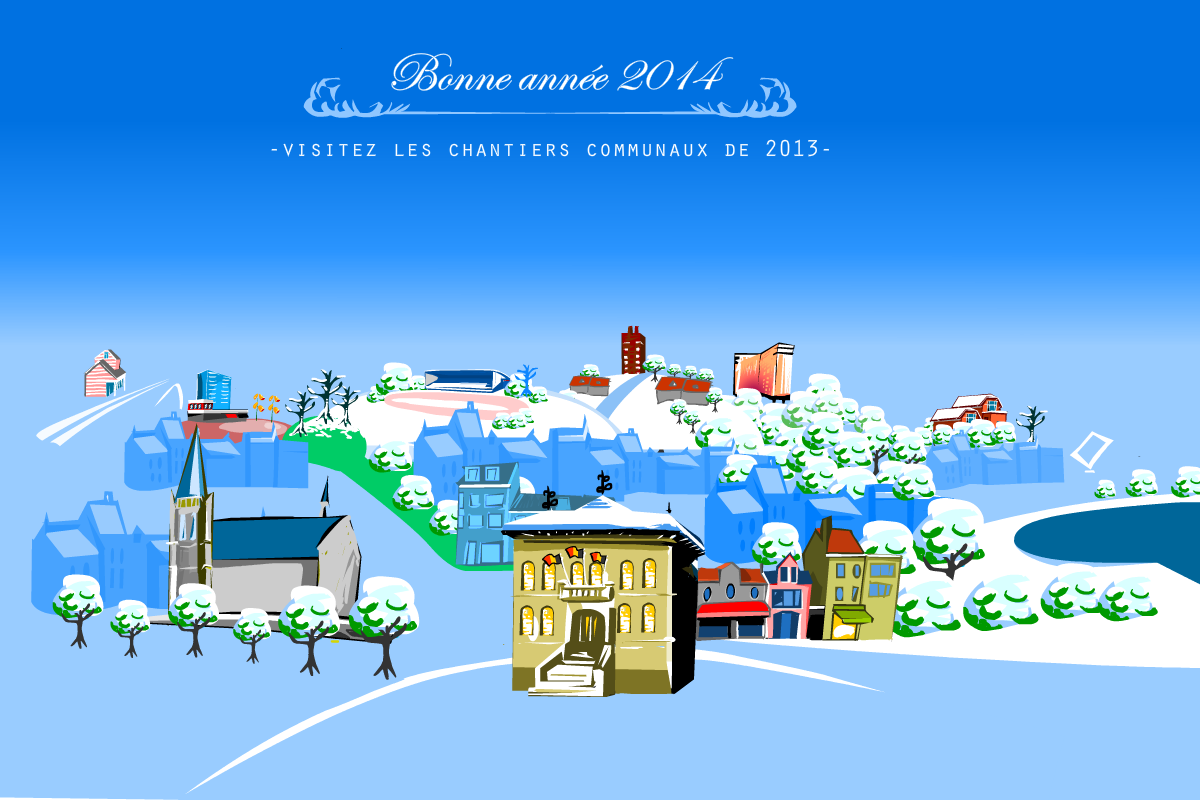
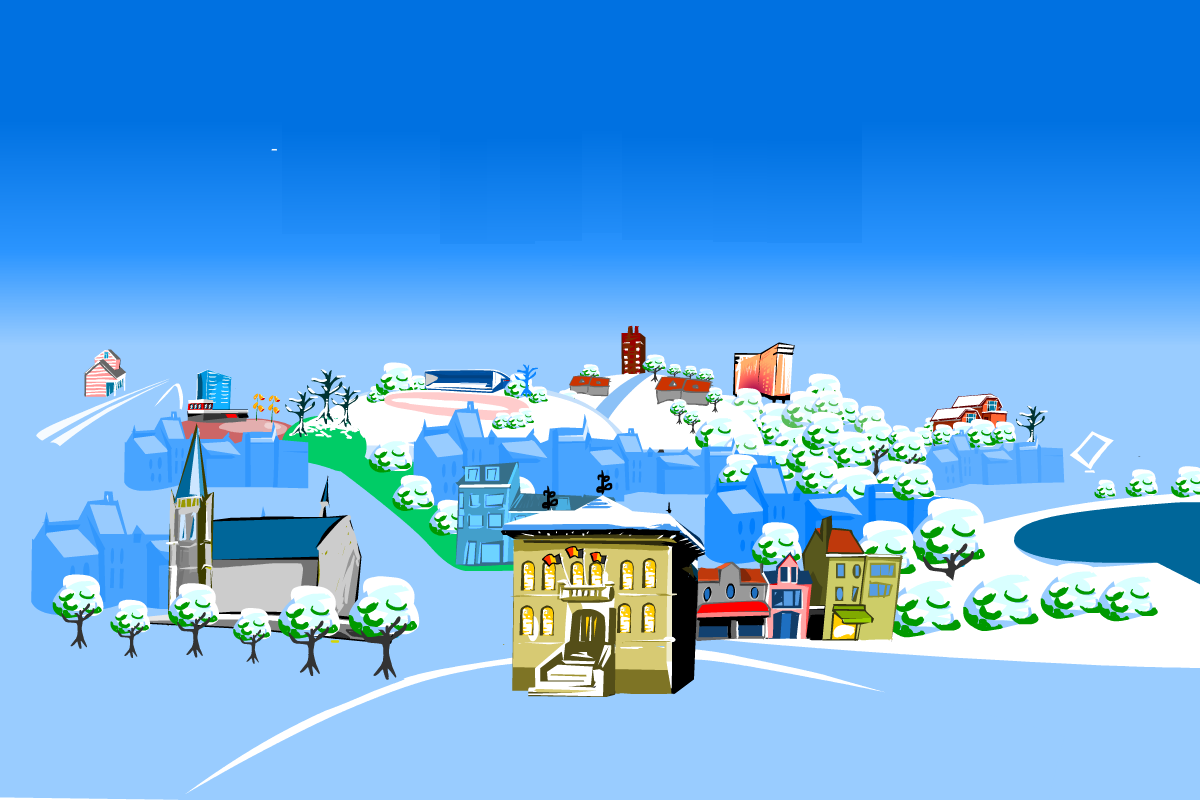
Responsive version

Changed region(s): [[0.2467, 0.0625, 0.6783, 0.2188]]

diff --git a/css/popup.css b/css/popup.css
@@ -18,7 +18,20 @@ reveal {
 to {
 	top: 0px; 
 }
-};
+}
+
+@-webkit-keyframes
+zoomIn {
+	
+	from {
+	width: 1px;
+	opacity:0;  
+}
+to {
+	width: 1000px;
+	opacity:1;  
+}
+}
 
 
 
@@ -29,14 +42,26 @@ to {
 
 
 body {
+	position:relative; 
 	background-color: #fff;
 	font-family: 'Open Sans', sans-serif;
 	font-weight: 400;
 	width:1000px; 
 	margin-left: auto;
 	margin-right: auto;
+	text-align:center; 
 	
 }
+.no-touch body {
+	margin:100px auto 0px auto; 
+	
+	
+}
+.touch body {
+	background-color:#99ccff; 
+	
+}
+
 
 .reveal {
 	animation: reveal 0.3s;
@@ -44,11 +69,6 @@ body {
 }
 
 
-.no-touch body {
-	padding:20px 0px 0px 0px; 
-	
-	
-}
 
 
 
@@ -56,26 +76,68 @@ body {
 	margin-left: auto;
 	margin-right: auto;
 	position:relative; 
+	text-align:center;
+	-webkit-animation: zoomIn 1s;
+	height:500px;  
+	overflow:hidden; 
+	  
  
 }
 
 
 
 img {
+	position:absolute; 
 	
 	width: 1000px;
 	height: 500px;
+	top:0px; 
+	left:0px;
+	border-radius: 3px; 
+ 
 }
-.no-touch img {
-	box-shadow: 5px 5px 20px #999;
+.no-touch #application {
+	box-shadow: 5px 5px 20px #ddd;
 	
 }
-
+header {
+	text-align:center; 
+	padding-top:25px; 
+	position:relative;
+	color:#FFF;
+	width:1000px;   
+	
+	
+}
+h1 {
+	font-family: 'Great Vibes', cursive;
+	font-size:40px;
+	margin:0px;
+	opacity:.9; 
+	Xwidth:1000px;    
+	
+	
+}
+#subtitle {
+	text-transform:uppercase;
+	Xfont-size:smaller;
+	letter-spacing:0.3em;
+	font-size:smaller;  
+	 
+	
+	
+}
 .popup h2 {
-	padding: 0;
+	font-family: 'Great Vibes', cursive;
+	Xtext-shadow: #fff 0px 1px 1px; 
+	-webkit-font-smoothing: antialiased;
+	font-size:30px; 
+	padding: 0 0 5px 0;
 	margin: 0;
 	font-weight: 400;
 	text-align: left;
+	text-shadow:0px 0px #000;
+	line-height:36px; 
 }
 .button {
 	width: 25px;
@@ -105,20 +167,21 @@ img {
 	position: absolute;
 	font-size: 11px;
 	line-height:1.3em; 
-	Xtop: 100px;
+	top: 0px;
+	margin-top:10px; 
 	background-position: center top;
 	background-repeat: repeat-y;
 	height: 300px;
 
 	text-align: justify;
-	color: #666;
+	color: #333;
 	box-shadow: 5px 5px 20px #667;
-	border-radius: 5px; 
+	border-radius: 3px; 
 }
 
 
 .touch .popup {
-	font-size: 14px;
+	font-size: 16px;
 
 	position:absolute; 
 		width: 600px;
@@ -131,20 +194,46 @@ img {
 
 .popup a {
 	position: absolute;
-	display: block;
-	font-style: italic;
-	right: 30px;
+	display: block; 
+	
+	right: 20px;
 	bottom: 10px;
+	padding: 2px;
+	text-decoration:none;  
 }
-.popup a:link, .popup a:visited, .popup a:active {
-	color: #00cc99;
+
+.touch .popup a {
+	text-transform:uppercase; 
+	background:#00cc99; 
+	
+	
+}
+.no-touch a {
+	font-style:italic; 	
+	
+	
+}
+.no-touch .popup a:link, .no-touch .popup  a:visited {
+	color:#666:  	
+	
+	
+}
+
+.touch .click-text {
+	display:none; 
+	
+	
+}
+
+.touch .popup a:link,.touch  .popup a:visited,.touch  .popup a:active {
+	color: #FFF;
 }
 
 
 .popup .content {
 
 	background: #ffffff; /* Old browsers */
-	padding: 30px 30px 30px 30px;
+	padding: 20px 20px 30px 20px;
 	position: relative;
 	box-shadow: 5px 5px 20px #666;
 }

diff --git a/index.html b/index.html
@@ -12,44 +12,47 @@
 		<meta name="author" content="W-B" />
 
 		<meta name="viewport" content="width=1000" />
-			<script src='script/dev/modernizr.js'></script>
+		<script src='script/dev/modernizr.js'></script>
 		<script src='http://code.jquery.com/jquery-1.10.2.min.js'></script>
 		<script src='script/dev/utils'></script>
-		
+
 		<script src='script/application-wb.js'></script>
 		<link href='http://fonts.googleapis.com/css?family=Open+Sans' rel='stylesheet' type='text/css'>
+		<link href="http://fonts.googleapis.com/css?family=Great+Vibes" rel="stylesheet" type="text/css">
+
 		<!-- Replace favicon.ico & apple-touch-icon.png in the root of your domain and delete these references -->
 		<link rel="stylesheet" href="css/normalize.css" />
 		<link rel="stylesheet" href="css/popup.css" />
 		<link rel="shortcut icon" href="/favicon.ico" />
 		<link rel="apple-touch-icon" href="/apple-touch-icon.png" />
-		
+
 		<script>
-				if (UserAgent.android ()) {
-					viewport = document.querySelector("meta[name=viewport]");
-viewport.setAttribute('content', 'width=1200');
-					
-					
-					
-				}
+			if (UserAgent.android()) {
+				viewport = document.querySelector("meta[name=viewport]");
+				viewport.setAttribute('content', 'width=1200');
+
+			}
 		</script>
 	</head>
 
 	<body>
 
 		<header>
+			<h1>Bonne année 2014</h1>
+			<span id=subtitle>~ Un apperçu de nos grands chantiers de 2013 ~</span>
 
 		</header>
 		<div id='application'>
-		<img src='img/boitsfort.png' />
+			<img src='img/boitsfort.png' />
 		</div>
 		<div class='popup' data-buttonPos='131,420'>
 
 			<div class='content'>
-				<h2>La gare de Boitsfort</h2>
-				Lorem ipsum dolor sit amet, consectetur adipiscing elit. Donec ultricies, quam a sodales.
-				semper, neque ipsum rhoncus turpis, id feugiat nisi magna vitae urna. Pellentesque vitae nisl leo. In nec pharetra elit. Suspendisse quis iaculis arcu. Quisque facilisis tempus placerat. Nunc id blandit dolor, vel sagittis felis. Nulla ut est dolor. Ut non ligula non nulla tristique faucibus. Nunc laoreet ipsum lorem, eu elementum velit varius in.
-				<a href='http://www.google.com' target = '_blank'>en savoir plus</a>
+				<h2>La place Keym</h2>
+				La réflexion sur le réaménagement de la place Keym a démarré. Un architecte sera désigné l’année prochaine et fera des propositions qui seront présentées et discutées avec les habitants et les commerçants. A suivre…
+
+<p>Du côté de l’Espace Delvaux : la salle de cinéma passe au tout numérique et les horaires de la bibliothèque sont élargis !
+				<a href='http://www.google.com' target = '_blank'><span class='click-text'>Cliquez pour </span>en savoir plus</a>
 			</div>
 
 		</div>
@@ -73,7 +76,7 @@ viewport.setAttribute('content', 'width=1200');
 
 			</div>
 
-			<div class='popup' data-buttonPos='200,150'>
+			<div class='popup' data-buttonPos='200,300'>
 
 				<div class='content'>
 					<h2>La maison communale</h2>

diff --git a/script/application-wb.js b/script/application-wb.js
@@ -2,12 +2,12 @@
  * @author jb@noloading.com
  */
 
-
 $("document").ready(function() {"use strict";
 
 	var POPUP_HEIGHT = 300, buttons_$ = $('.button'), lastPopup_$, popups_$, buttons_array = [], popups_array = [];
 	//data-buttonPos
 	popups_$ = $('.popup').detach();
+	$('#application').append ($('header')); 
 
 	function removeLast() {
 		if (lastPopup_$ !== undefined) {
@@ -20,7 +20,6 @@ $("document").ready(function() {"use strict";
 			lastPopup_$.fadeOut(300, function() {
 
 				$(this).detach();
-		
 
 			});
 
@@ -37,8 +36,6 @@ $("document").ready(function() {"use strict";
 		button_$.css('left', Number(pos_array[0]));
 		button_$.attr('data-index', index);
 		element_$.attr('data-index', index);
-		
-	
 
 		$('#application').append(button_$);
 
@@ -52,25 +49,22 @@ $("document").ready(function() {"use strict";
 		removeLast();
 	});
 
+	buttons_$.bind('click', function() {
+		var popup_$, this_$ = $(this), index, a_$;
+		if (!Modernizr.touch) {
 
-buttons_$.bind ('click', function () {
-		var popup_$, this_$ = $(this), index;
-	if (!Modernizr.touch) {
-	
-		index = this_$.attr('data-index');
+			index = this_$.attr('data-index');
 
-		popup_$ = $(popups_$[index]);
-		
-		
-		window.open (popup_$.find ('a').attr ('href')); 
-	
-	
-		
-	}
-	
-});
-	
-	
+			popup_$ = $(popups_$[index]);
+			a_$ = popup_$.find('a');
+			if (a_$.length > 0) {
+
+				window.open(a_$.attr('href'));
+			}
+
+		}
+
+	});
 
 	buttons_$.bind('mouseover', function() {
 		//console.log ("mouse over");
@@ -92,14 +86,12 @@ buttons_$.bind ('click', function () {
 
 		this_$.addClass('selected');
 		lastPopup_$ = popup_$;
-		popup_$.addClass ('reveal');
-	 
-		
-		
-$('#application').append (popup_$); 
+		popup_$.addClass('reveal');
+
+		$('#application').append(popup_$);
 		//popup_$.insertBefore(this_$);
 
-		top_num = 20;
+	
 		if (!Modernizr.touch) {
 			left_num = this_$.position().left + this_$.width() / 2 - popup_$.width() / 2;
 		};
@@ -108,7 +100,7 @@ $('#application').append (popup_$);
 		//this_$.position().top - top_num + this_$.height() + 10;
 
 		popup_$.css({
-			top : top_num,
+		
 			left : left_num,
 			height : height_num
 		});
